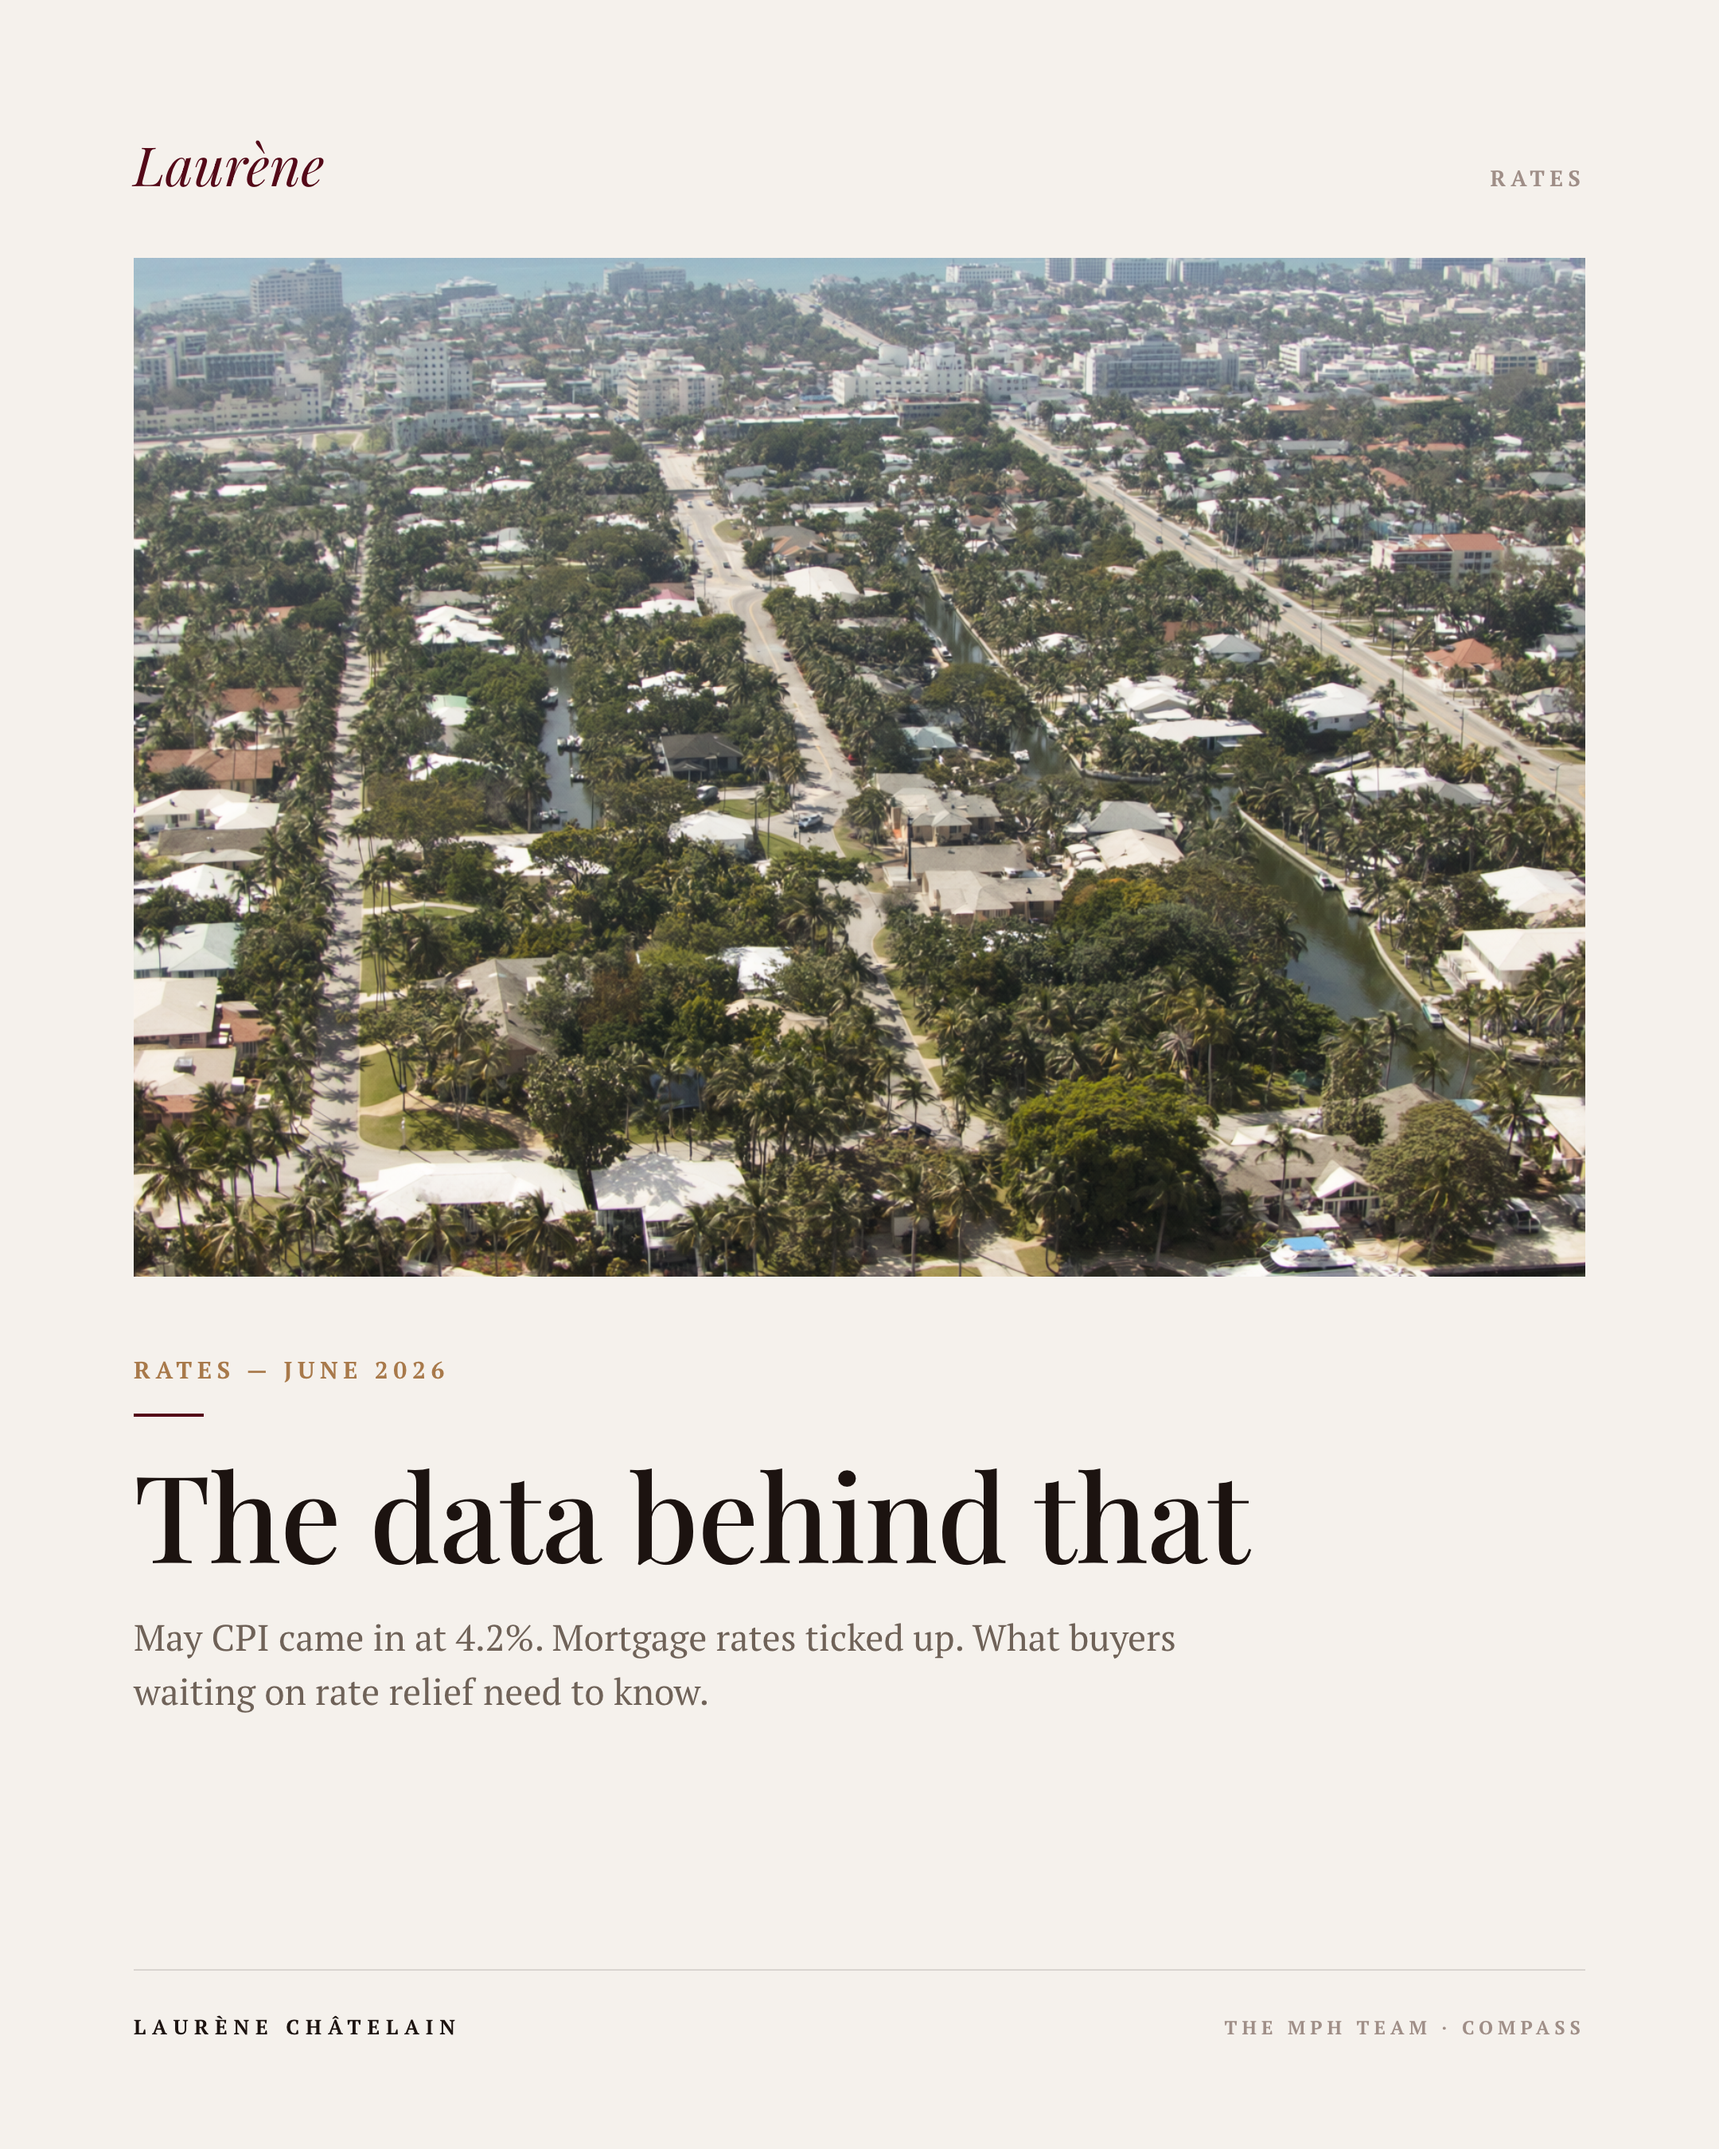
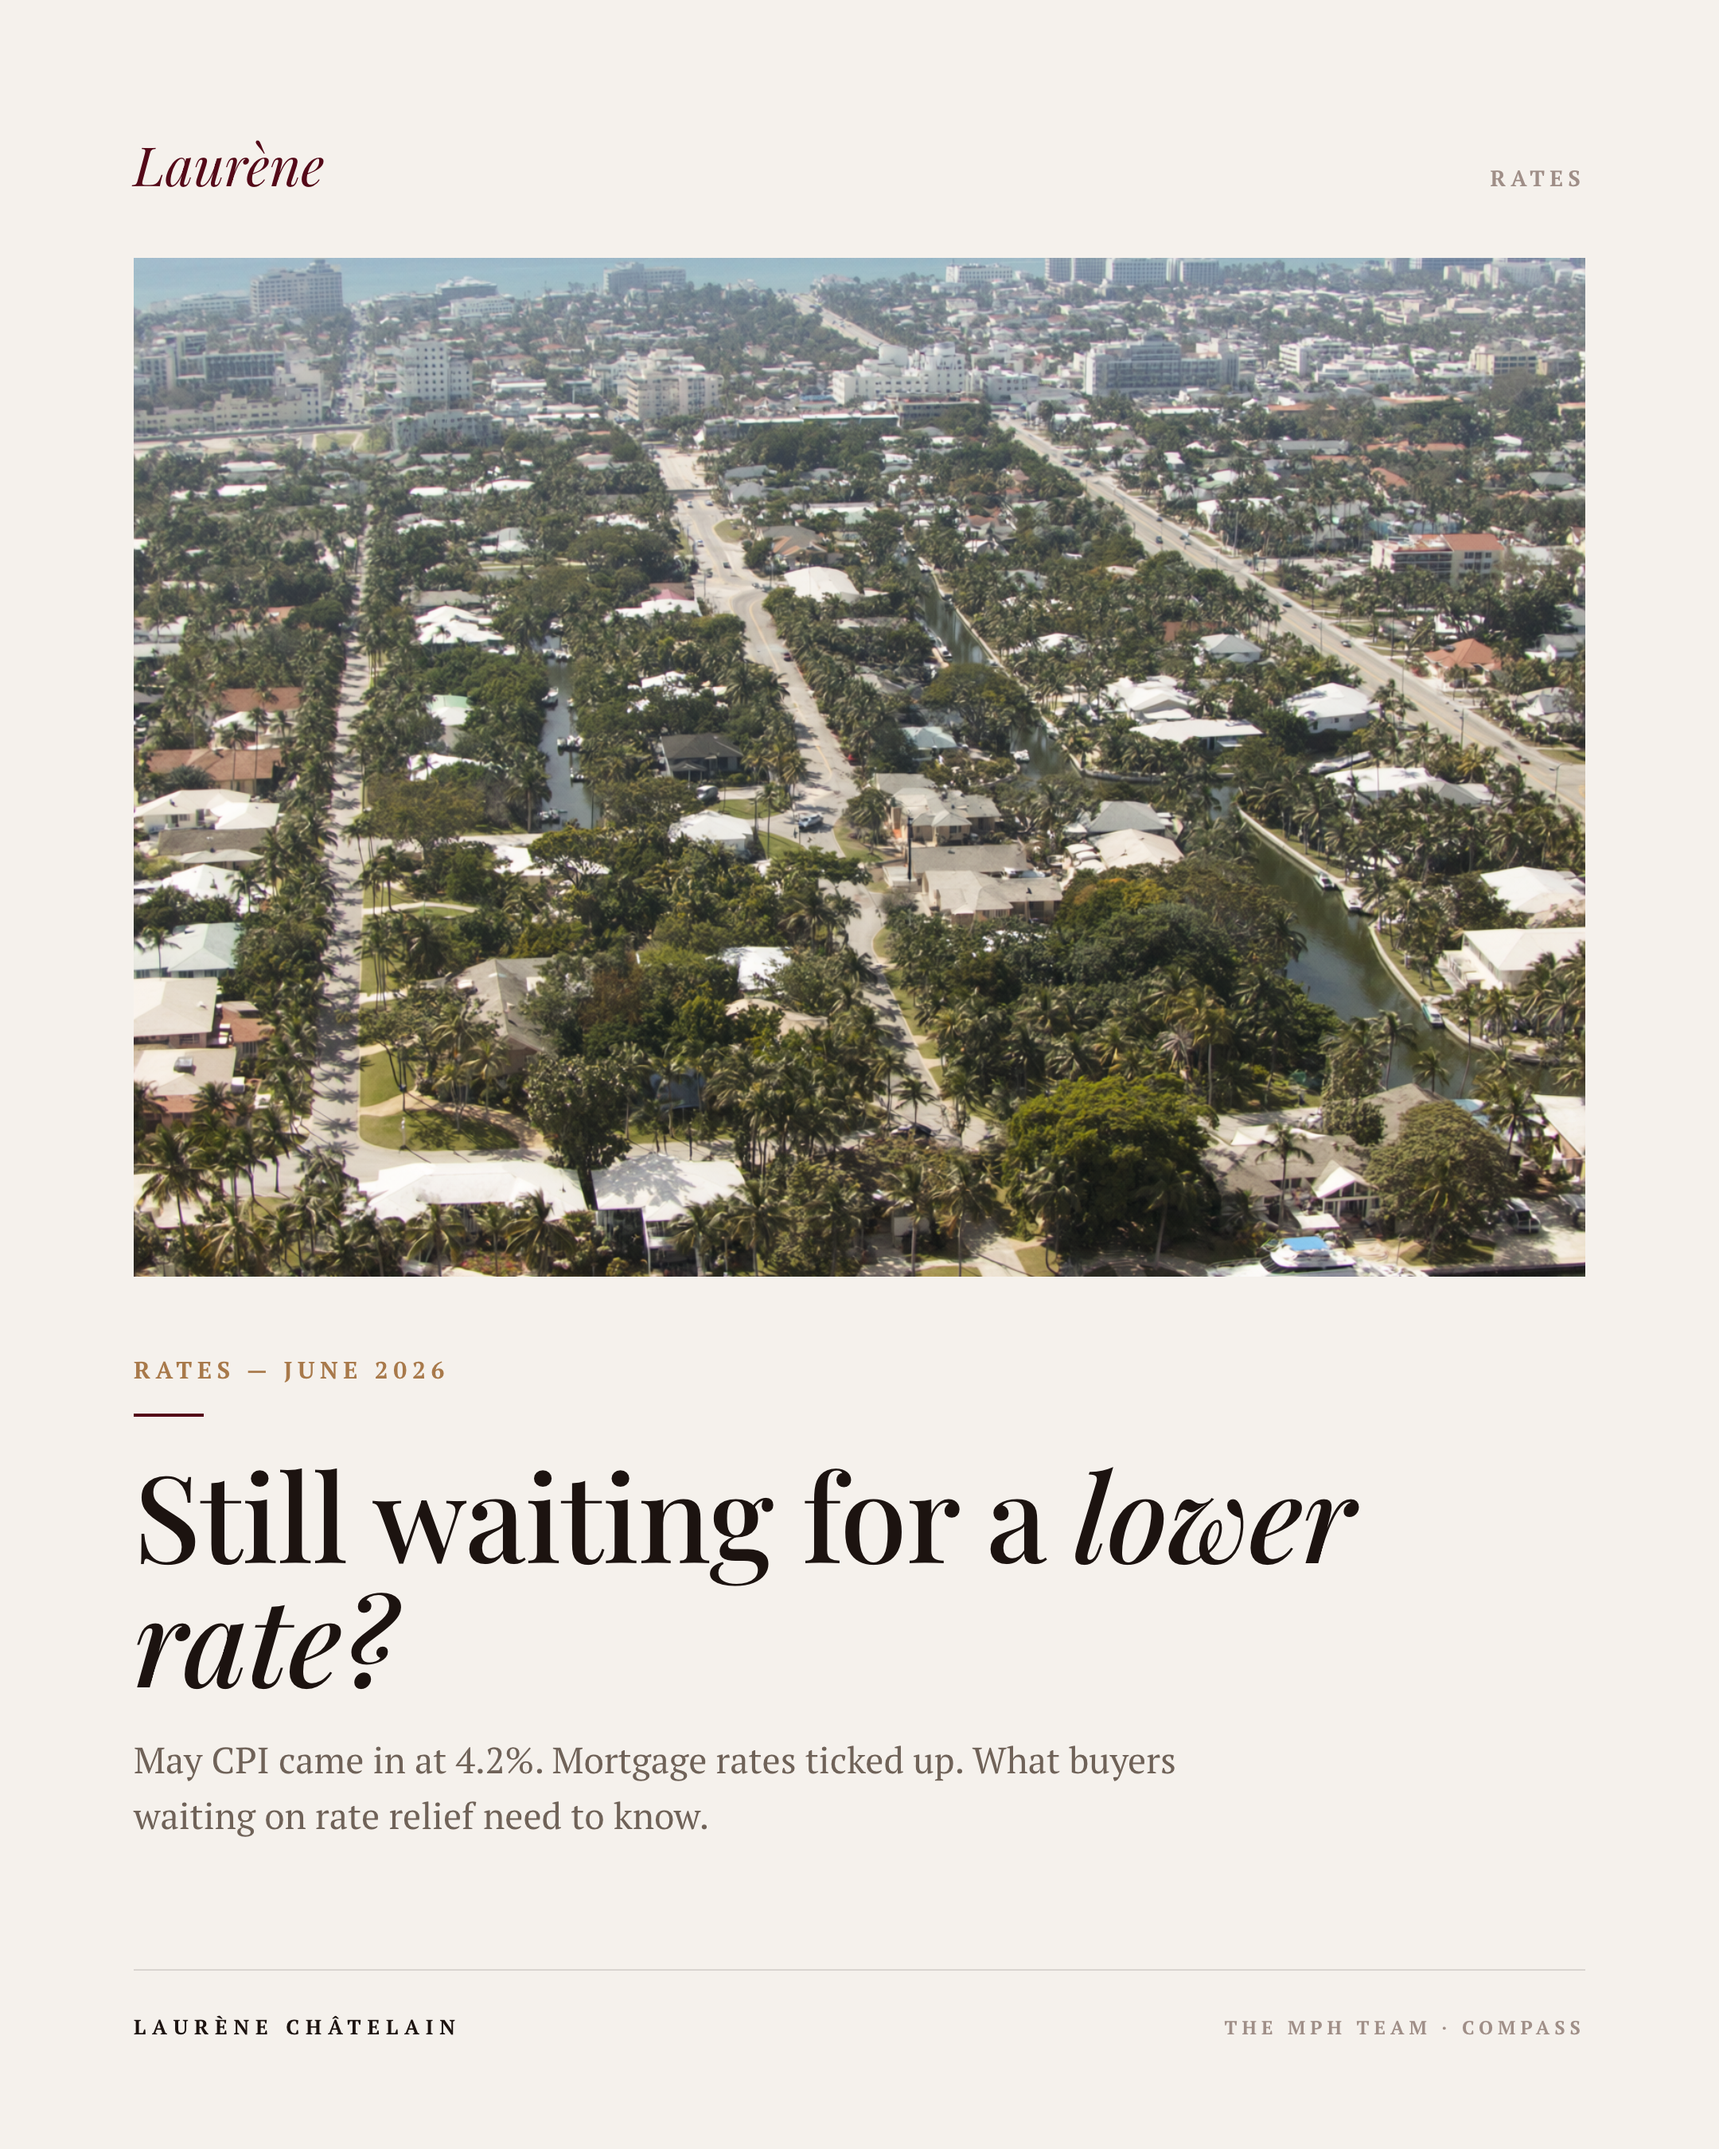
render: W25 mon (auto-published from production-dispatcher)

Changed region(s): [[0.062, 0.6844, 0.7755, 0.8711]]

diff --git a/W25-940c86/mon/index.html b/W25-940c86/mon/index.html
@@ -193,7 +193,7 @@
 
   <footer class="page-footer">
     <a href="../" class="page-footer__back">&larr; back to W25</a>
-    <div class="page-footer__updated">Updated Jun 13, 2026 10:43 PM</div>
+    <div class="page-footer__updated">Updated Jun 13, 2026 10:46 PM</div>
   </footer>
 
   <script>

diff --git a/W25-940c86/index.html b/W25-940c86/index.html
@@ -141,7 +141,7 @@
 
   <footer class="page-footer">
     <div class="page-footer__token">W25 &middot; 940c86</div>
-    <div class="page-footer__updated">Updated Jun 13, 2026 10:43 PM</div>
+    <div class="page-footer__updated">Updated Jun 13, 2026 10:46 PM</div>
   </footer>
 </body>
 </html>
